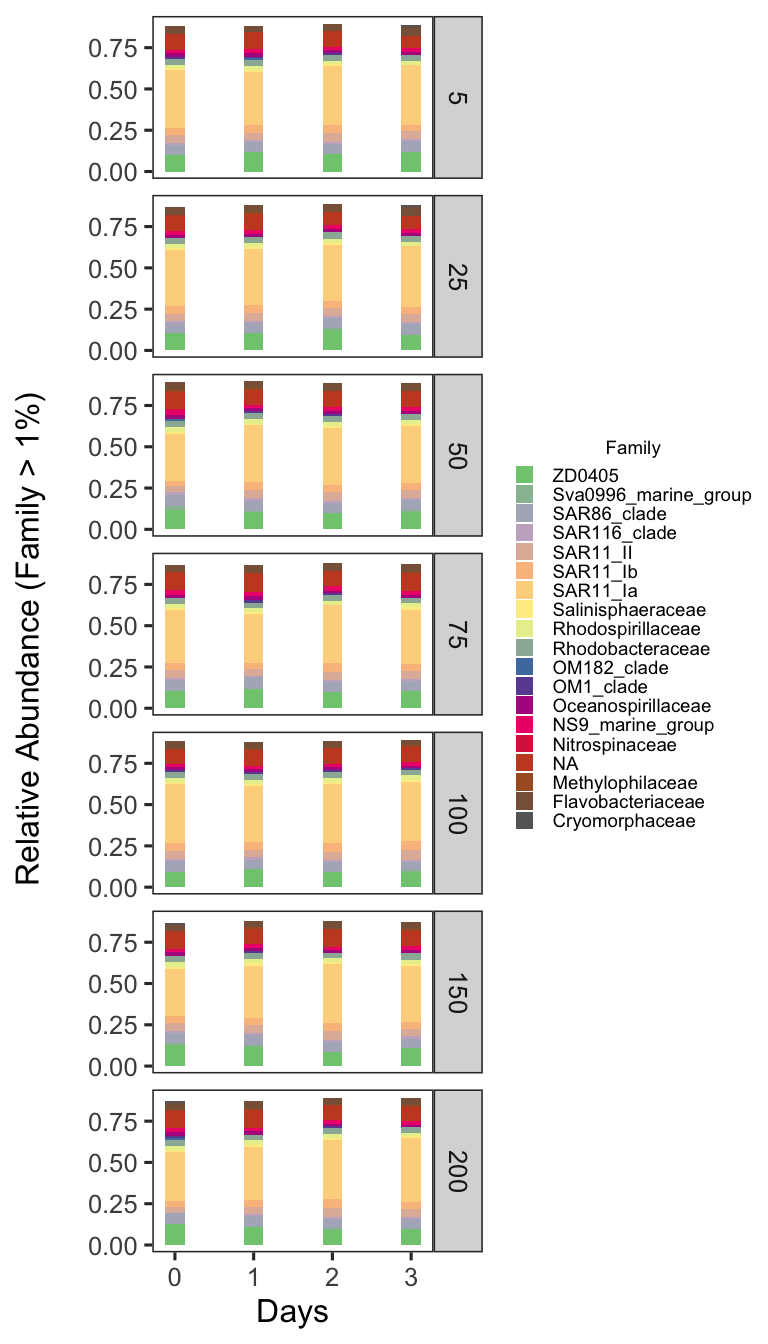
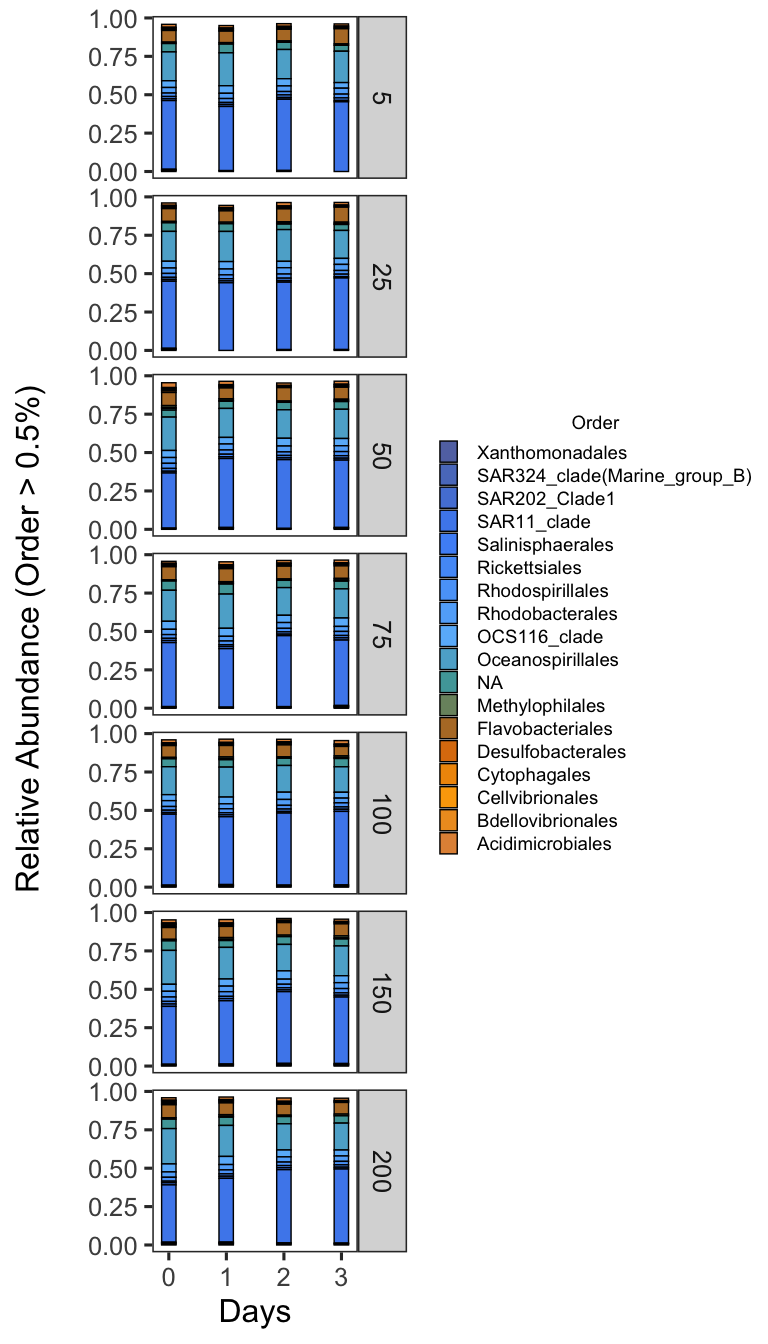
update n2s4 16s rmd/md

Changed region(s): [[0.2812, 0.0, 0.9688, 1.0], [0.0938, 0.0, 0.25, 0.9688], [0.0, 0.2812, 0.0625, 0.6562]]

diff --git a/rmd/S4_16S.md b/rmd/S4_16S.md
@@ -24,6 +24,7 @@ library(ggpubr)
 #phyloseq
 library(phyloseq)
 library(RColorBrewer)
+library(calecopal)
 ```
 
 ``` r
@@ -909,22 +910,22 @@ composition in these samples.
 
 Since this is not a quantitative analysis, and since we have more Phyla
 in this dataset than we can reasonably distinguish colors, we will prune
-out low abundance taxa and only include Families that contribute more
-than 1% of the relative abundance of each sample. Depending on your
-dataset and the taxonomic level you are depicting, you can adjust this
-prune parameter. In later analyses, we will of course included these
-taxa, but for now they will just clutter our plot.
+out low abundance taxa and only include Orders that contribute more than
+0.5% of the relative abundance of each sample. Depending on your dataset
+and the taxonomic level you are depicting, you can adjust this prune
+parameter. In later analyses, we will of course included these taxa, but
+for now they will just clutter our plot.
 
 ``` r
 # melt to long format (for ggploting) 
-# prune out phyla below 1% in each sample
+# prune out orders below 0.5% in each sample
 
-sub_ps_family <- sub_ps %>%
-  tax_glom(taxrank = "Family") %>%                     # agglomerate at phylum level
+stack_sub_ps <- sub_ps %>%
+  tax_glom(taxrank = "Order") %>%                     # agglomerate at phylum level
   transform_sample_counts(function(x) {x/sum(x)} ) %>% # Transform to rel. abundance
   psmelt() %>%                                         # Melt to long format
-  filter(Abundance > 0.01) %>%                         # Filter out low abundance taxa
-  arrange(Family)                                      # Sort data frame alphabetically by family
+  filter(Abundance >= 0.005) %>%                         # Filter out low abundance taxa
+  arrange(Order)                                      # Sort data frame alphabetically by Order
 ```
 
 <img src="S4_16S_files/figure-gfm/unnamed-chunk-48-1.png" style="display: block; margin: auto;" />
